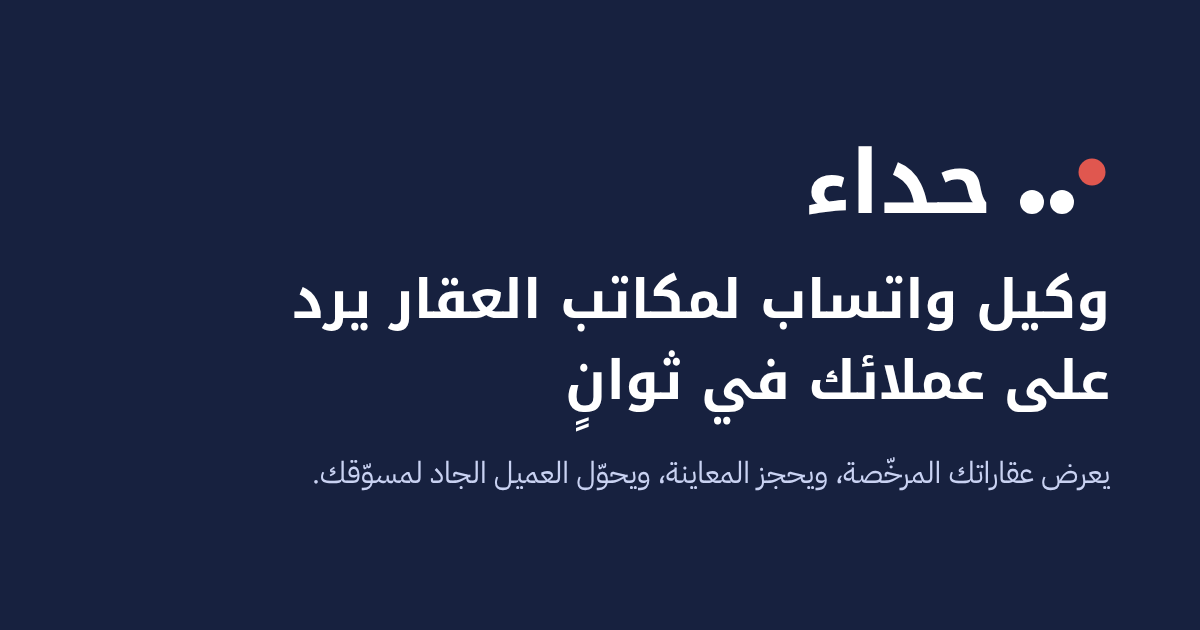
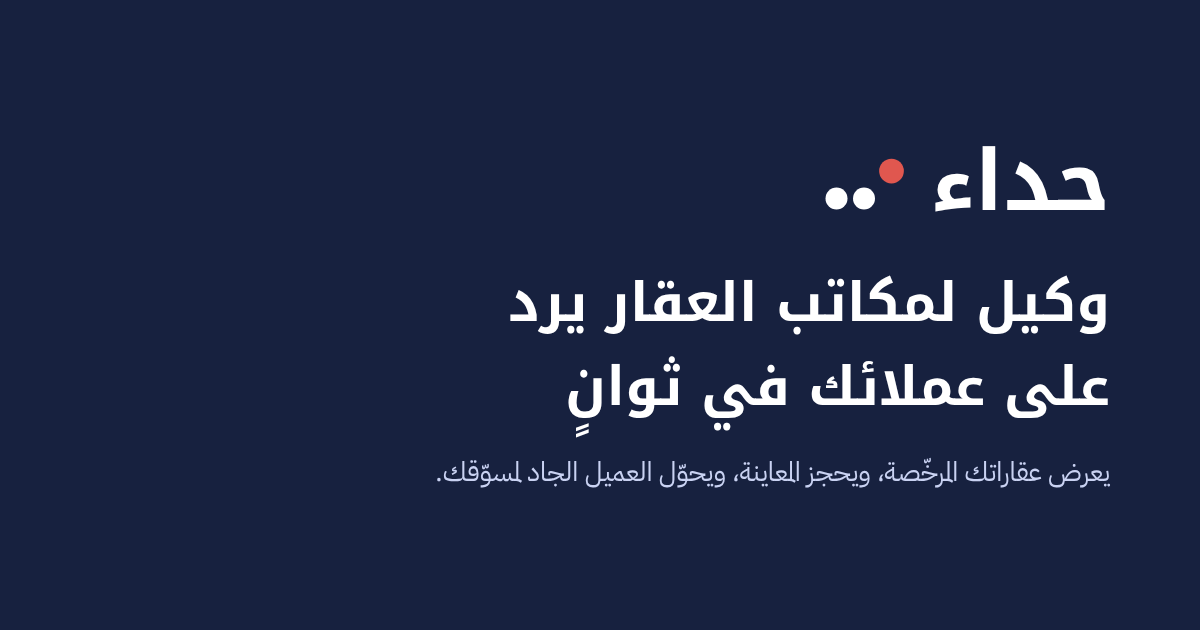
Tagline: وكيل لمكاتب العقار (without واتساب) in emails, page titles and the share image
Claude-Session: https://claude.ai/code/session_016XVRDC3nvP1FPD5QGP6eui

diff --git a/portal/src/app/layout.tsx b/portal/src/app/layout.tsx
@@ -5,7 +5,7 @@ export const metadata: Metadata = {
   title: "حداء",
   description: "وكيل آلي على رقم واتساب مكتبك العقاري: يرد خلال ثوانٍ، ويعرض عقاراتك المرخّصة، ويحجز المعاينة.",
   metadataBase: new URL("https://hidaaco.com"),
-  openGraph: { title: "حداء — وكيل واتساب لمكاتب العقار", locale: "ar_SA", type: "website" },
+  openGraph: { title: "حداء — وكيل لمكاتب العقار", locale: "ar_SA", type: "website" },
 };
 
 export default function RootLayout({ children }: { children: React.ReactNode }) {

diff --git a/portal/src/app/page.tsx b/portal/src/app/page.tsx
@@ -3,7 +3,7 @@ import { HOME_HTML } from "./home-html";
 import { HomeInteractions } from "./HomeInteractions";
 
 export const metadata: Metadata = {
-  title: "حداء — وكيل واتساب لمكاتب العقار",
+  title: "حداء — وكيل لمكاتب العقار",
   description: "كل رسالة ما ترد عليها، عميل يكلم مكتب ثاني. حداء يرد على عملائك في واتساب 24 ساعة، من عقاراتك أنت، يحجز المعاينة ويسلمك العميل جاهز.",
 };
 

diff --git a/backend/src/main/java/sa/waslah/agent/common/Email.java b/backend/src/main/java/sa/waslah/agent/common/Email.java
@@ -83,7 +83,7 @@ public record Email(String preheader, String greeting, List<String> paragraphs, 
                       </td></tr>
                       <tr><td align="center" style="padding:18px 6px 0 6px;font-family:%3$s;font-size:12px;line-height:1.8;color:%8$s;" dir="rtl">
                         فريق حداء · <a href="mailto:support@hidaaco.com" style="color:%8$s;">support@hidaaco.com</a><br>
-                        وكيل واتساب لمكاتب العقار · <a href="https://hidaaco.com" style="color:%8$s;">hidaaco.com</a>
+                        وكيل لمكاتب العقار · <a href="https://hidaaco.com" style="color:%8$s;">hidaaco.com</a>
                       </td></tr>
                     </table>
                   </td></tr>
